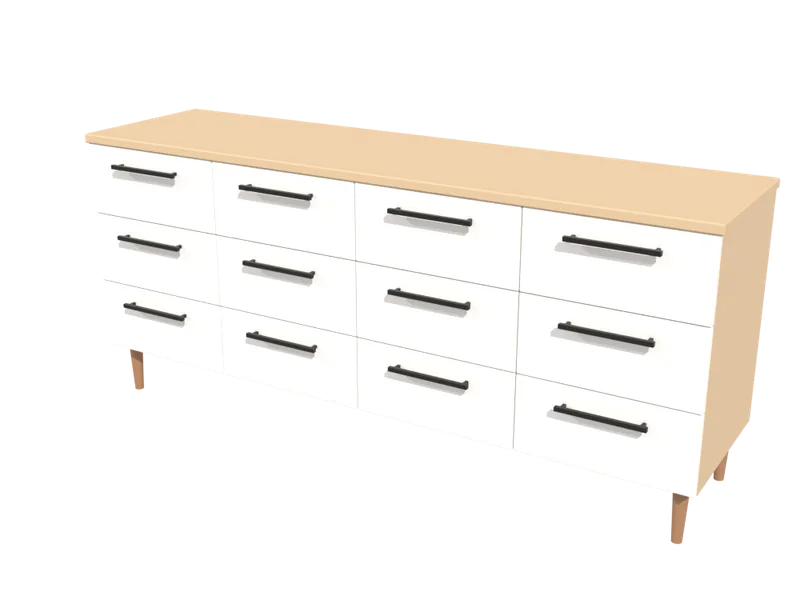
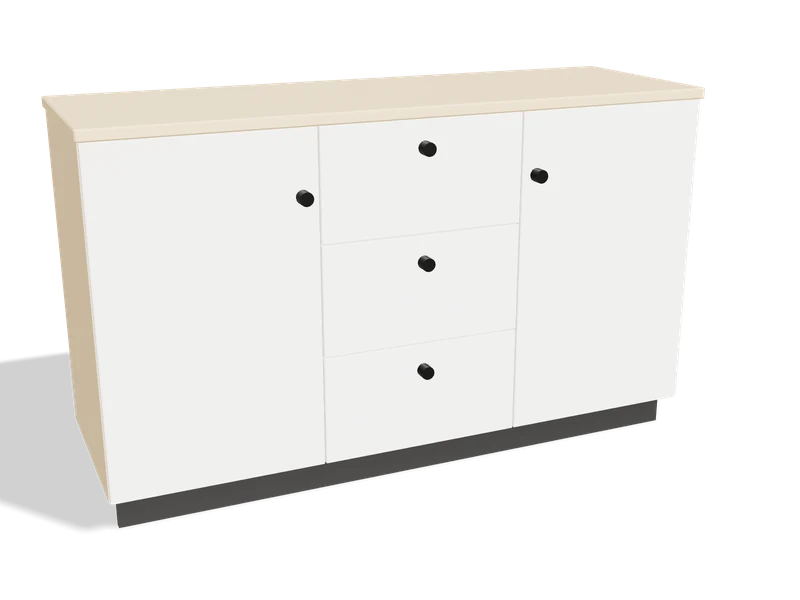
Strona główna: komoda trzyczęściowa (drzwi, szuflady, drzwi) zamiast komody z dwunastoma szufladami
Render modelu komody 140 cm z seed/modele-szafy-komody-100 (800×600, przezroczyste tło).

Claude-Session: https://claude.ai/code/session_012WiCBxUkqUeJ6UvqR4eswy

diff --git a/src/content/strona-glowna.ts b/src/content/strona-glowna.ts
@@ -66,7 +66,7 @@ export const HOME = {
       {
         title: "Komody i szafki",
         text: "Komody od 40 do 220 cm, szuflandie, szafki RTV, nocne, na buty, regały i witryny.",
-        media: { src: "/strona/meble-komody.webp", alt: "Komoda z dwunastoma szufladami w 3D", ratio: "4 / 3" } as Media,
+        media: { src: "/strona/meble-komody.webp", alt: "Komoda trzyczęściowa w 3D: drzwi, trzy szuflady, drzwi", ratio: "4 / 3" } as Media,
       },
       {
         title: "Łazienka i przedpokój",
